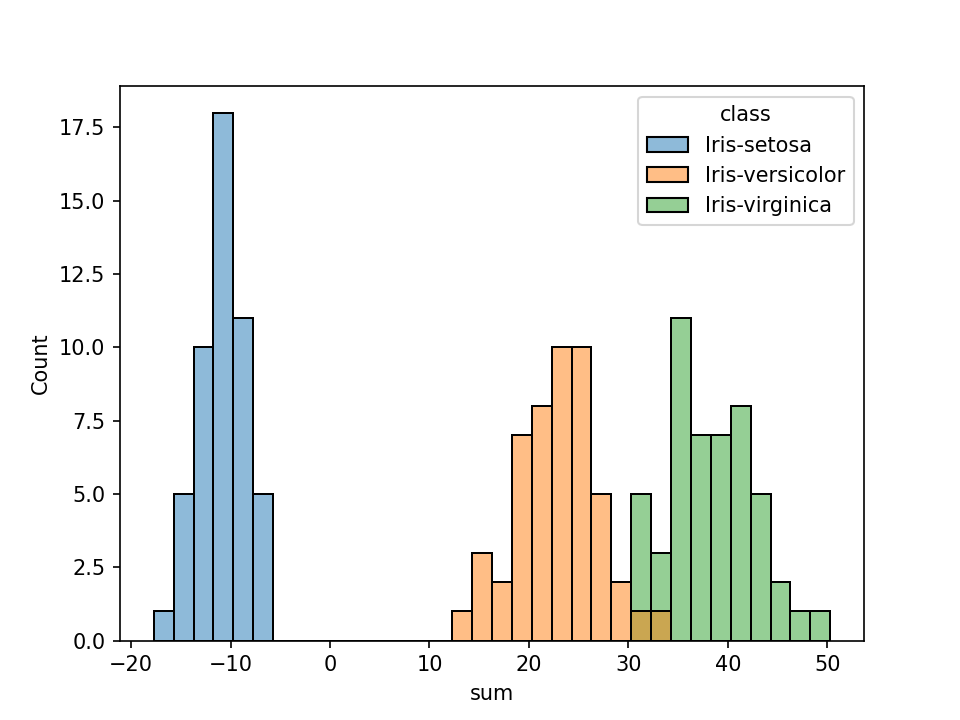
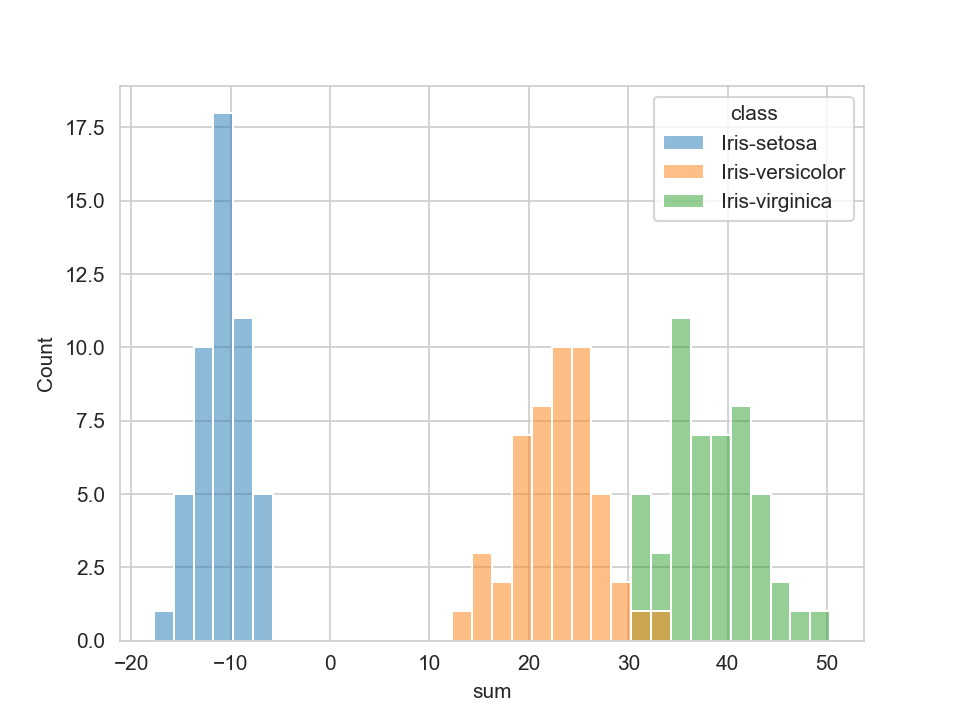
Boxplots added to better explain the data than the histograms alone

diff --git a/Code/analysis.py b/Code/analysis.py
@@ -1,7 +1,8 @@
 # Program to analyse data from Iris dataset
 # Author: Przemyslaw Bil
 
-import pandas as pd 
+import pandas as pd
+import math
 import os
 import matplotlib.pyplot as plt
 import seaborn as sbr
@@ -22,36 +23,56 @@ def getdata(datapath):
     # Return data frame with added header
     return df
 
-
+# This function accepts a subset of the data with 2 columns: class description and one variable
+# The output is a text file with descriptive stats and the histogram
+# File name for the histogram and the text file are taken from the second column name
 def outsummary(subset, outpath):
     # get a name of the atribute from the name of the second column
     atribute = subset.columns[1]
+
     # calculate the mean of this attribute for every class
     stats = subset.groupby('class').mean()
+
     # calculate the standard deviation of this attribute for every class
     stats['Std dev'] = subset.groupby('class').std()
+
     # change the name of the attribute column to Mean
     stats = stats.rename(columns={atribute: 'Mean'})
 
-    # Change current folder to /Out folder
+    # Change current folder to /Out folder (as per https://docs.python.org/3/library/os.html#os-file-dir)
     os.chdir(outpath)
 
-    # Output calculated descriptive stats to separate files
+    # Output calculated descriptive stats to file name after the attribute name
     with open(atribute+".txt", "wt") as outfile:
         outfile.write("Summary for {}\n".format(atribute))
         # Output as perhttps://stackoverflow.com/questions/31247198/python-pandas-write-content-of-dataframe-into-text-file
         # and https://pandas.pydata.org/docs/reference/api/pandas.DataFrame.to_string.html
         stats.to_string(outfile)
     
-    # output histogram for each class
-    bin = (subset[atribute].max()-subset[atribute].min())/20
+    # The following part will output histogram, different coulous for each class
 
-    hist = sbr.histplot(subset, x=atribute, hue="class", binwidth=bin)
-    hist.figure.savefig(atribute+".png")
+    # First, calculate the width of the bins
+    # calculate histogram bin width: https://www.qimacros.com/histogram-excel/how-to-determine-histogram-bin-interval/#:~:text=Calculate%20the%20number%20of%20bins%20by%20taking%20the%20square%20root,)%20by%20the%20%23%20of%20bins.
+    #nrofbins = math.ceil(math.sqrt(subset.count()/3))
+    #binw = (subset[atribute].max()-subset[atribute].min())/nrofbins
+
+    # Create histogram using seaborn library
+    sbr.histplot(subset, x=atribute, hue="class")
+
+    # output the histogram to png file named after the attribute name
+    plt.savefig(atribute+" histogram.png", dpi=150)
+
     # Added as per https://stackoverflow.com/questions/57533954/how-to-close-seaborn-plots
     # Without plt.close(), each next histogram was printed with the data from the previous ones
     plt.close()
 
+    # because histograms for different classes are overlapping, it's better to use boxplot to show the data distribution
+    #https://seaborn.pydata.org/generated/seaborn.boxplot.html
+    sbr.boxplot(data=subset, y=atribute, x="class")
+
+    # output the BOXPLOT to png file named after the attribute name
+    plt.savefig(atribute+" boxplot.png", dpi=150)
+    plt.close()
 
 # initialize folder locations
 THIS_FOLDER = os.path.dirname(os.path.abspath(__file__))
@@ -68,20 +89,17 @@ for column in iris.columns:
         # get a subset as per https://pandas.pydata.org/docs/getting_started/intro_tutorials/03_subset_data.html
         outsummary(iris[['class', column]], outfolder)
 
+
+# Exploratory data analysis as per https://www.youtube.com/watch?v=FLuqwQgSBDw part 1, 2 and 3
+sbr.set_style("whitegrid")
+scatt = sbr.pairplot(iris, hue="class", height=3).add_legend()
+plt.savefig('scatter plot.png', dpi=150)
+plt.close()
+
+
 # call the function that recreates calculations from the classic Fisher paper
 fisheranalysys(iris, outfolder)
 
-'''
-# Exploratory data analysis as per https://www.youtube.com/watch?v=FLuqwQgSBDw part 1, 2 and 3
-sbr.set_style("whitegrid")
-sbr.pairplot(iris, hue="class", height=3)\
-    .add_legend()
-plt.show()
-'''
-
-# plot a boxplot for each class for all 4 atributes:
-# df.groupby('class').boxplot(rot=45, fontsize=8, figsize=(8,10))
-# plt.show()
 
 
 #print(df)
